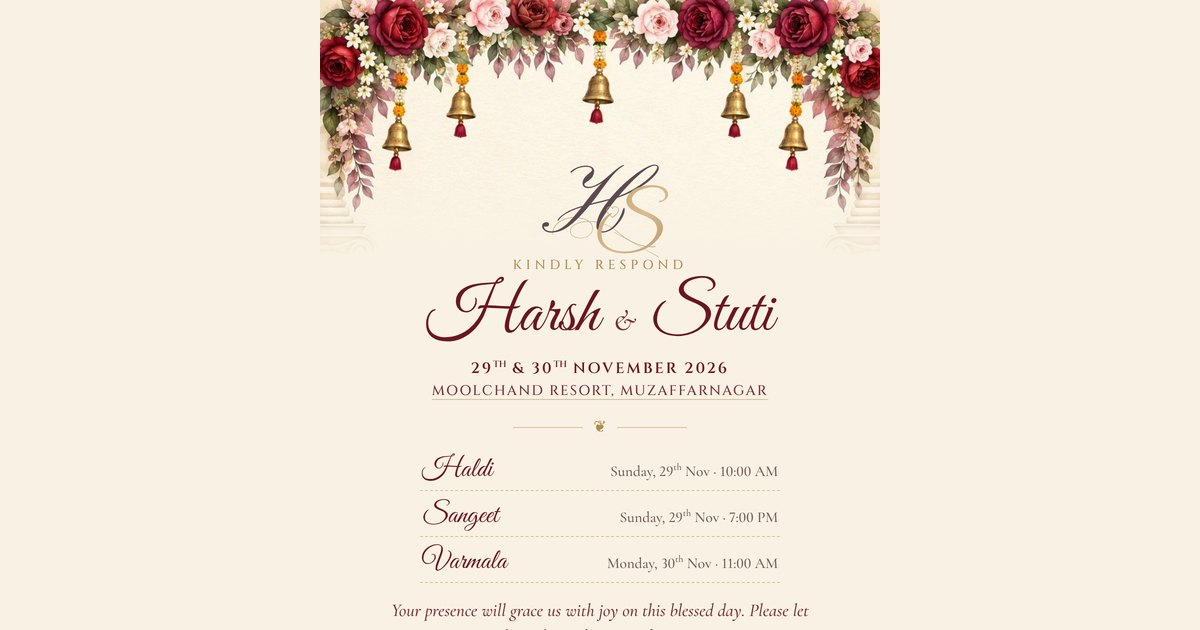
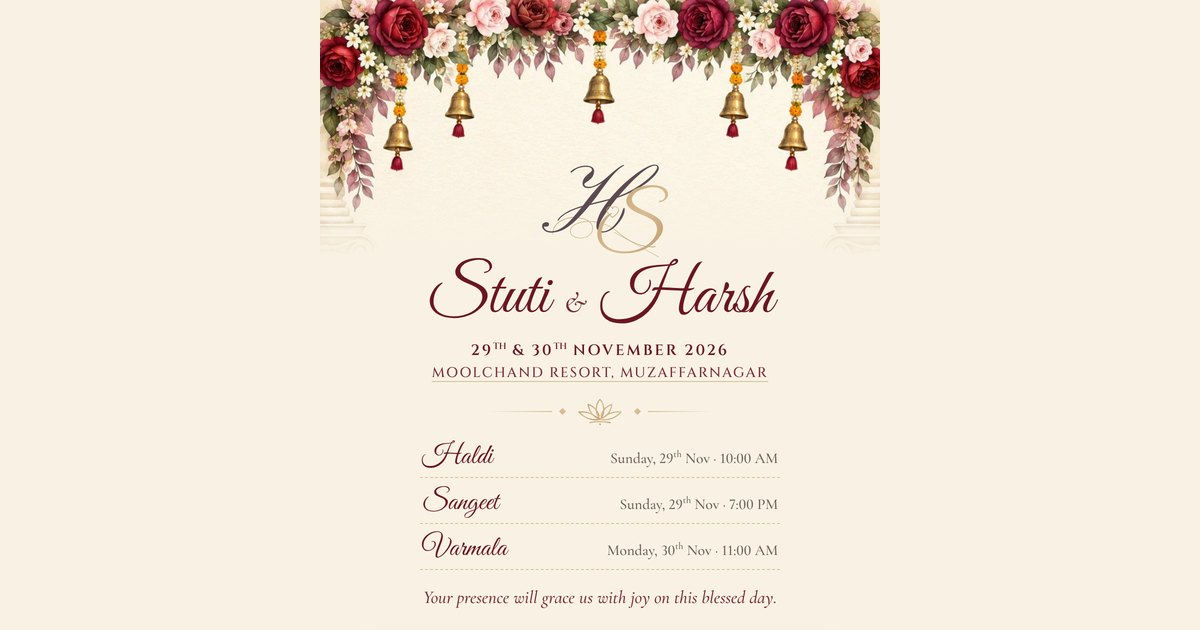
Wedding RSVP: Stuti & Harsh name order
Claude-Session: https://claude.ai/code/session_014jEFCskwwNy5yMcLBTXkCs

diff --git a/harsh-stuti-rsvp/index.html b/harsh-stuti-rsvp/index.html
@@ -3,11 +3,11 @@
 <head>
   <meta charset="utf-8" />
   <meta name="viewport" content="width=device-width, initial-scale=1, viewport-fit=cover" />
-  <title>Harsh & Stuti · RSVP</title>
-  <meta name="description" content="Kindly RSVP for the wedding celebrations of Harsh & Stuti · 29th & 30th November 2026 · Moolchand Resort, Muzaffarnagar" />
+  <title>Stuti & Harsh · RSVP</title>
+  <meta name="description" content="Kindly RSVP for the wedding celebrations of Stuti & Harsh · 29th & 30th November 2026 · Moolchand Resort, Muzaffarnagar" />
   <meta name="theme-color" content="#f8f0e1" />
   <meta property="og:type" content="website" />
-  <meta property="og:title" content="Harsh & Stuti · Wedding RSVP" />
+  <meta property="og:title" content="Stuti & Harsh · Wedding RSVP" />
   <meta property="og:description" content="29th & 30th November 2026 · Moolchand Resort, Muzaffarnagar. We'd love to know you're coming!" />
   <meta property="og:url" content="https://hbarbhaya3-a11y.github.io/Save-the-Date/harsh-stuti-rsvp/" />
   <meta property="og:image" content="https://hbarbhaya3-a11y.github.io/Save-the-Date/harsh-stuti-rsvp/assets/og.jpg" />
@@ -17,7 +17,7 @@
   <link rel="preconnect" href="https://fonts.googleapis.com" />
   <link rel="preconnect" href="https://fonts.gstatic.com" crossorigin />
   <link href="https://fonts.googleapis.com/css2?family=Cinzel:wght@400;500;600&family=Cormorant+Garamond:ital,wght@0,500;0,600;0,700;1,500;1,600&family=Great+Vibes&family=Pinyon+Script&display=swap" rel="stylesheet" />
-  <link rel="stylesheet" href="styles.css?v=202610310845" />
+  <link rel="stylesheet" href="styles.css?v=202611100850" />
 </head>
 <body>
   <header class="hero" aria-hidden="true">
@@ -45,7 +45,7 @@
         <text class="logo__S" x="262" y="232" text-anchor="middle" fill="url(#goldA)">S</text>
         <g transform="translate(16 8)"><path d="M206 150c-9-7-15-12-15-19 0-4 3-8 8-8 3 0 6 2 7 5 1-3 4-5 7-5 5 0 8 4 8 8 0 7-6 12-15 19z" fill="none" stroke="url(#goldA)" stroke-width="1.8" stroke-linejoin="round"/></g>
       </svg>
-      <h1 class="names">Harsh <span class="amp">&amp;</span> Stuti</h1>
+      <h1 class="names">Stuti <span class="amp">&amp;</span> Harsh</h1>
       <p class="dates">29<sup>th</sup> &amp; 30<sup>th</sup> November 2026</p>
       <p class="venue"><a href="https://maps.google.com/?q=Moolchand+Resort+Muzaffarnagar" target="_blank" rel="noopener">Moolchand Resort, Muzaffarnagar</a></p>
       <div class="rule" aria-hidden="true">
@@ -126,7 +126,7 @@
         <legend><span class="num">3</span> A wish for the couple</legend>
         <label class="field">
           <span class="sr">Your wish</span>
-          <textarea name="wish" rows="3" placeholder="Write a few words for Harsh &amp; Stuti…"></textarea>
+          <textarea name="wish" rows="3" placeholder="Write a few words for Stuti &amp; Harsh…"></textarea>
         </label>
       </fieldset>
 
@@ -168,11 +168,11 @@
       <p class="thanks__msg" id="thanksMsg"></p>
     </section>
 
-    <p class="sign">With love,<br /><span>Harsh &amp; Stuti</span><br /><small>#HarshgotStutified</small></p>
+    <p class="sign">With love,<br /><span>Stuti &amp; Harsh</span><br /><small>#HarshgotStutified</small></p>
   </main>
 
   <footer class="foot" aria-hidden="true"><img src="assets/roses-bottom.jpg" alt="" /></footer>
 
-  <script src="script.js?v=202610310845"></script>
+  <script src="script.js?v=202611100850"></script>
 </body>
 </html>

diff --git a/harsh-stuti-rsvp/README.md b/harsh-stuti-rsvp/README.md
@@ -1,4 +1,4 @@
-# Harsh & Stuti · Wedding RSVP
+# Stuti & Harsh · Wedding RSVP
 
 Live: https://hbarbhaya3-a11y.github.io/Save-the-Date/harsh-stuti-rsvp/
 
